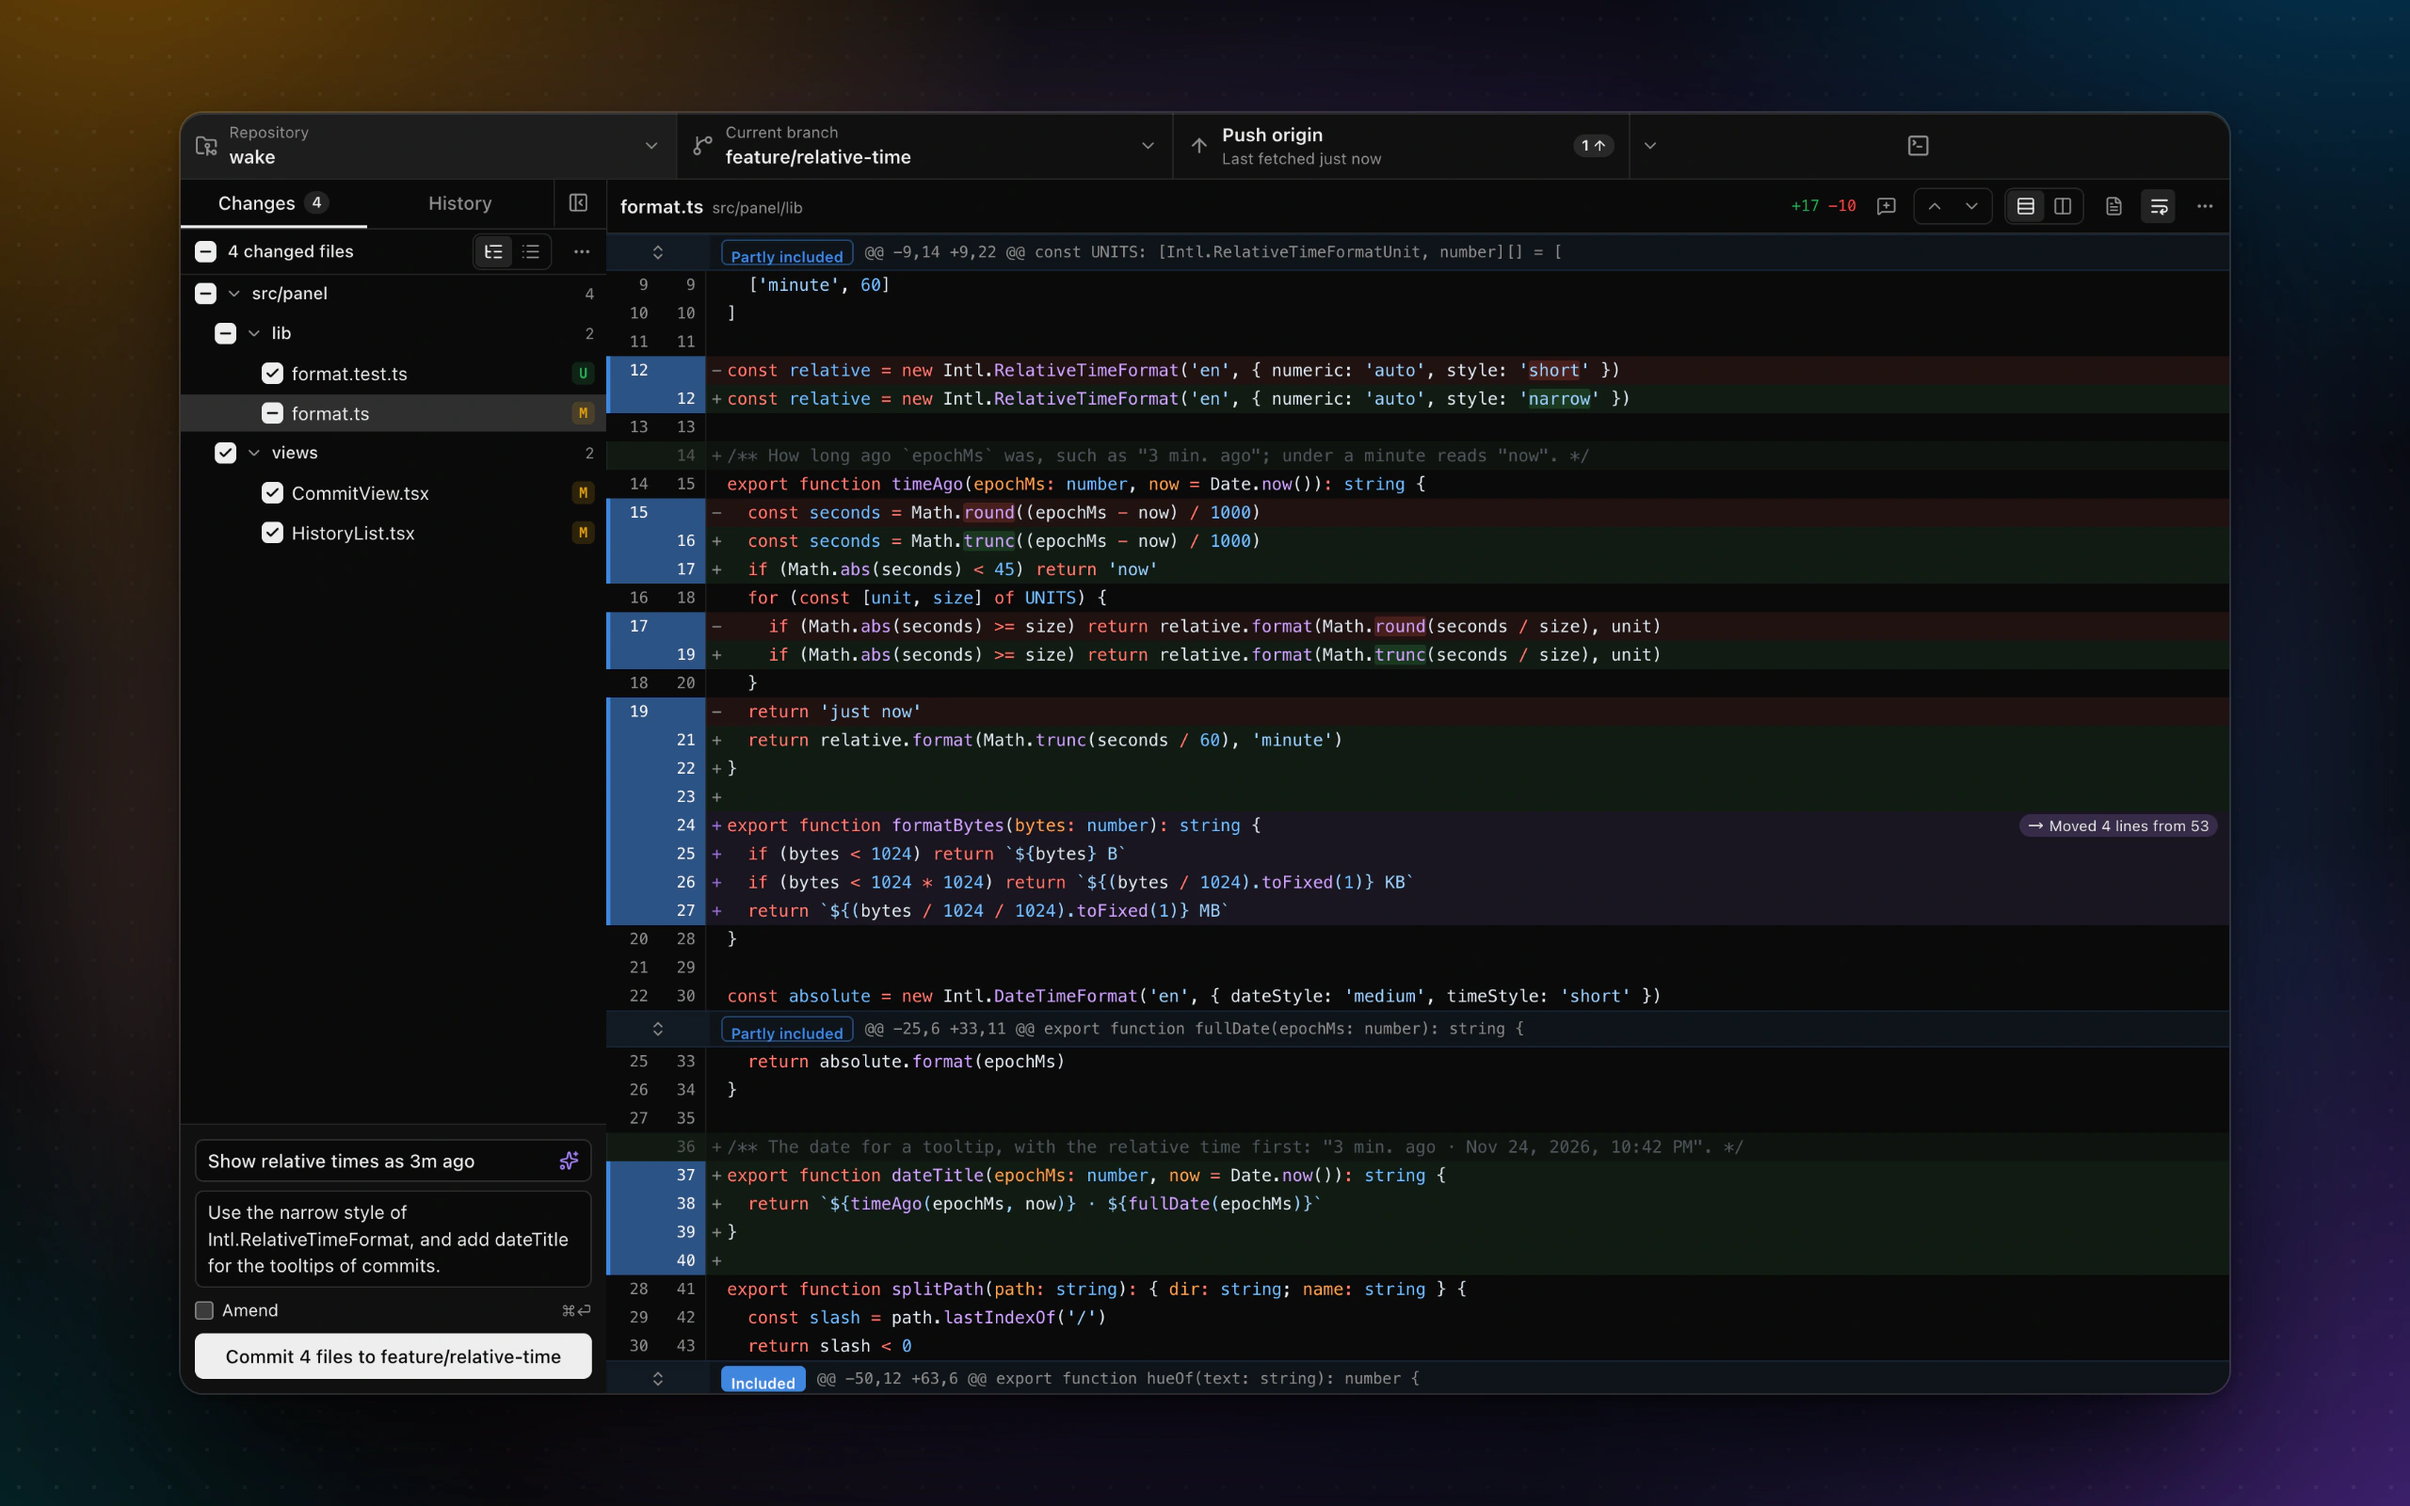
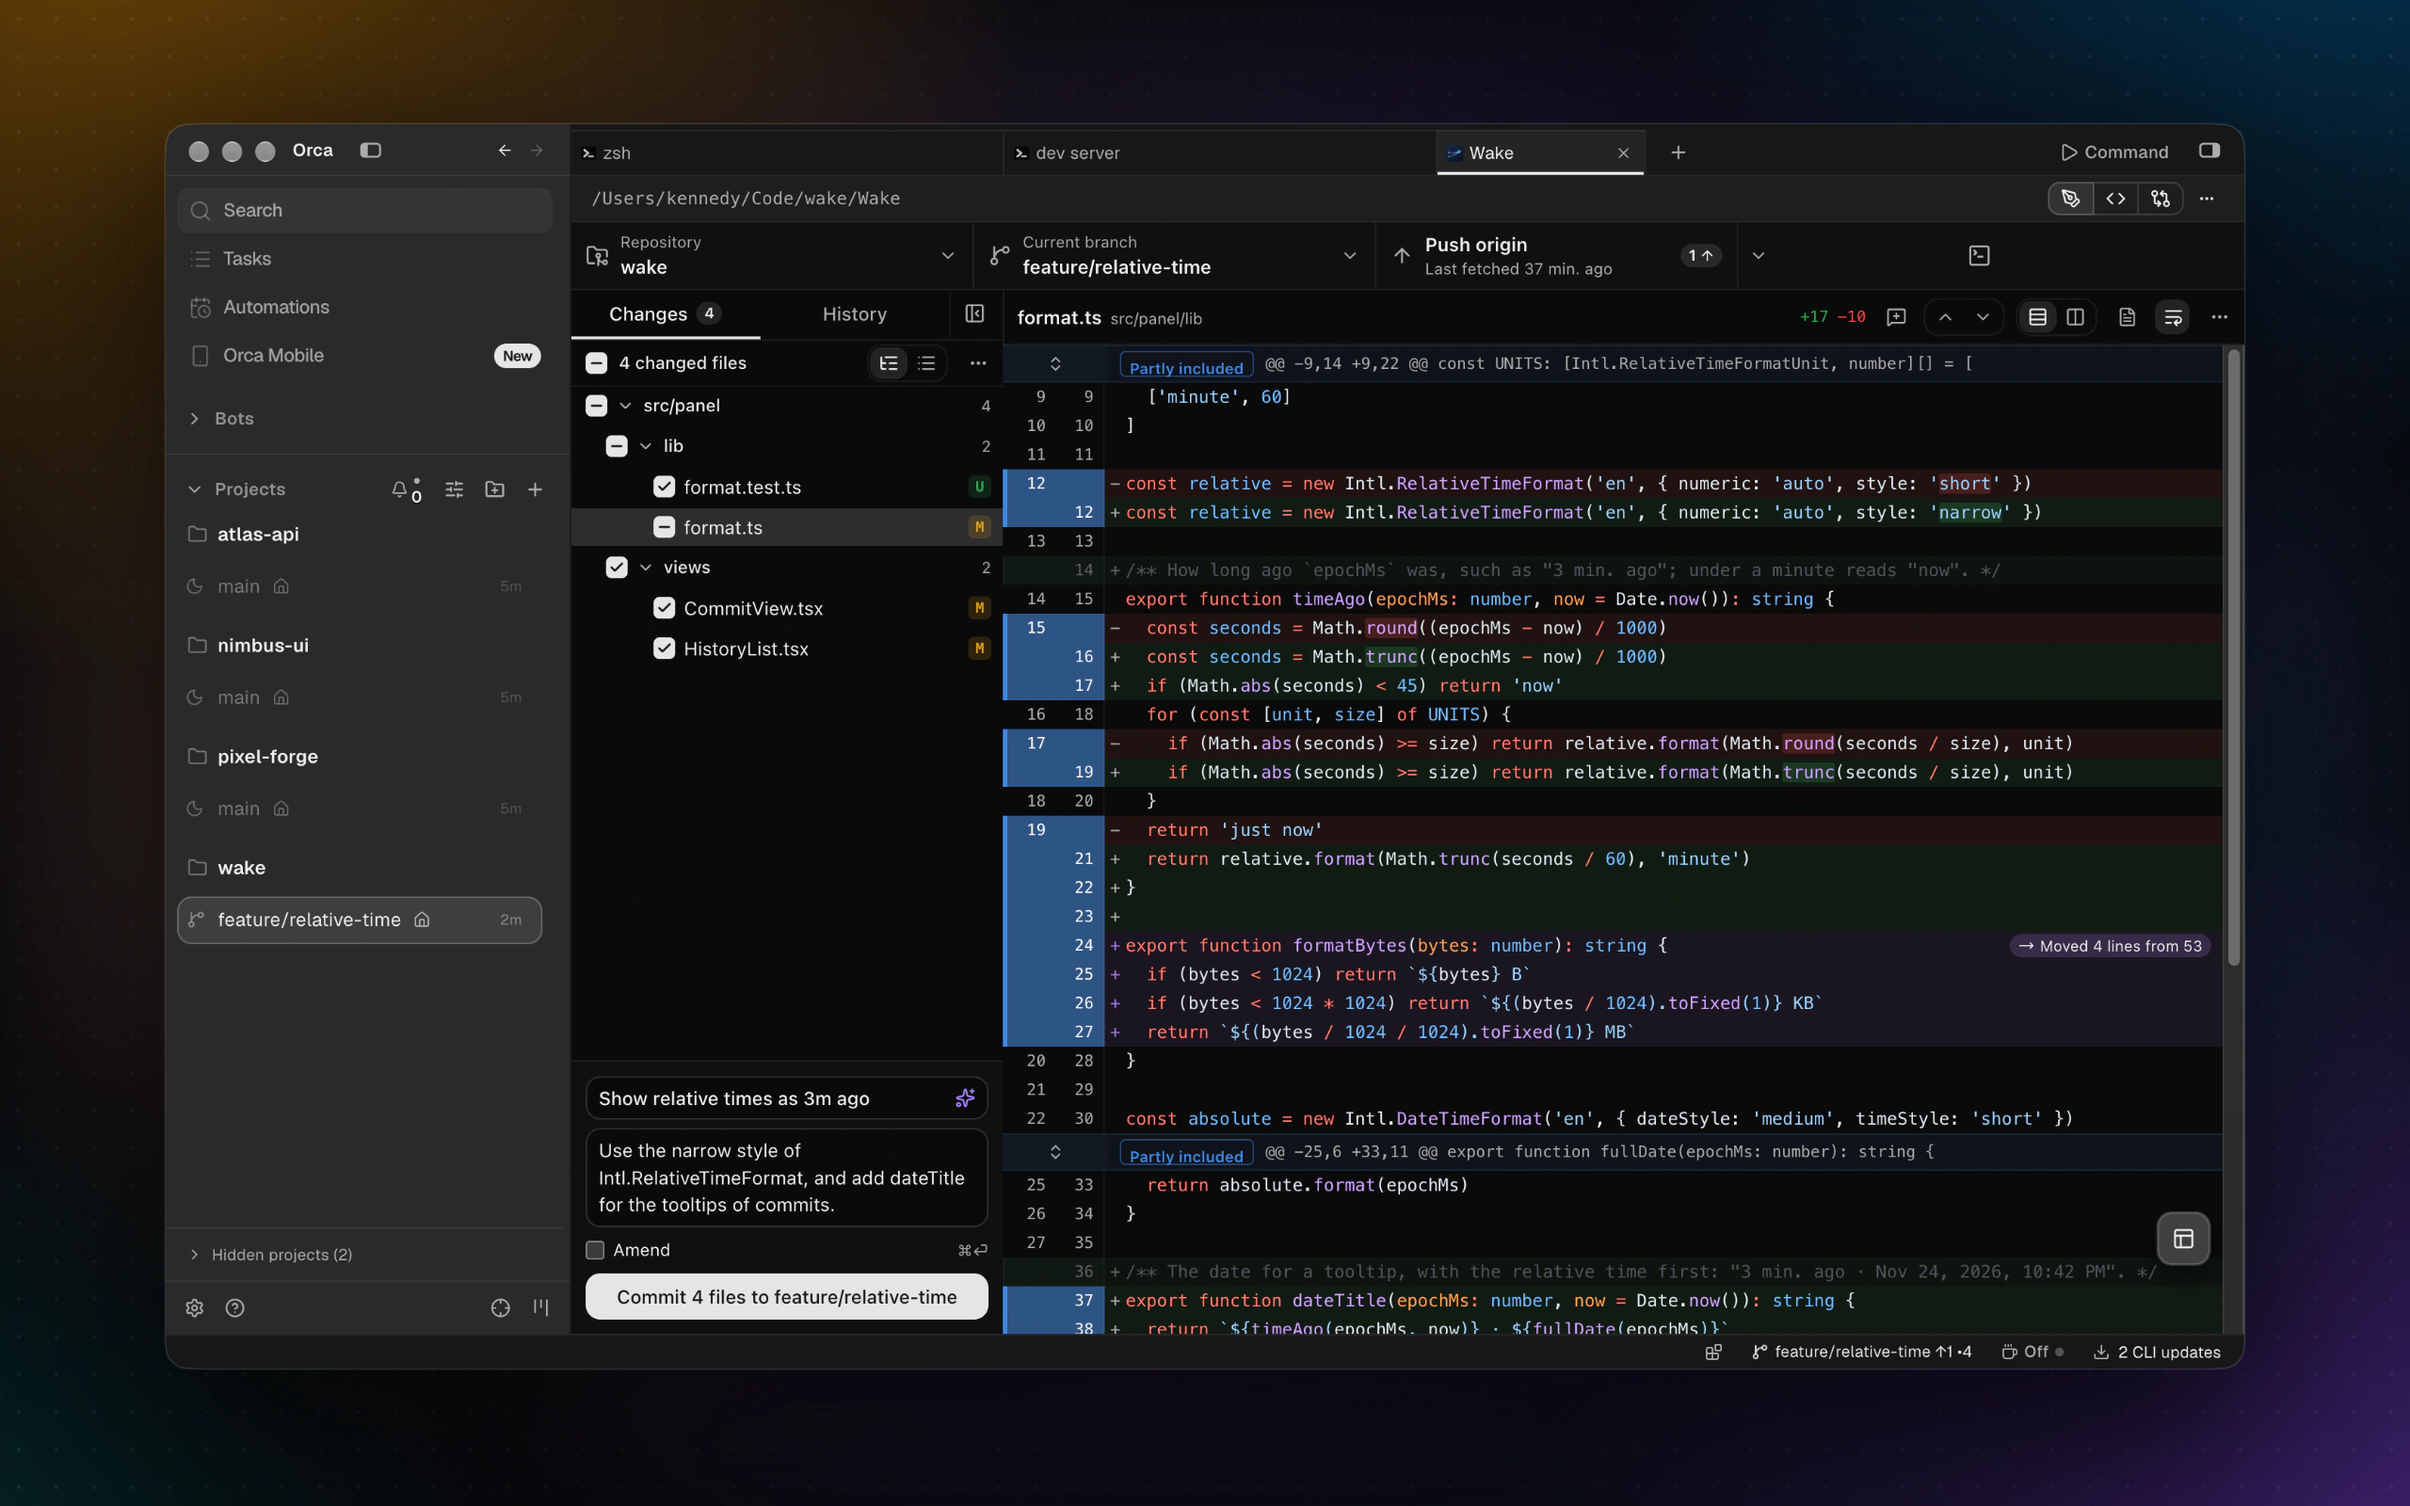
Show Wake inside Orca on the cover, and release 0.2.1
The cover is now a real Orca window: Wake open in a tab next to two
terminals, projects in Orca's sidebar, and the branch item in the
status bar, so the picture says this is an Orca tab, not a separate Git
client. It was taken in a second Orca with its own profile and made-up
projects. 0.2.1 changes nothing else; its tag brings the cover to the
Orca directory.

diff --git a/README.md b/README.md
@@ -8,7 +8,7 @@
 
 Your agents change a lot of files. Wake shows you what changed, sends your review notes back to the agent, lets you commit exactly the lines you want, and shows the history one commit at a time, without leaving Orca.
 
-![Wake in a full-size Orca tab: changed files as a folder tree, two lines left out of the commit, code that moved, and the commit message](docs/images/changes.webp)
+![Orca with Wake open in a tab next to two terminal tabs: the projects in Orca's sidebar, changed files as a folder tree, two lines left out of the commit, code that moved, the commit message, and the branch in Orca's status bar](docs/images/changes.webp)
 
 ## Contents
 
